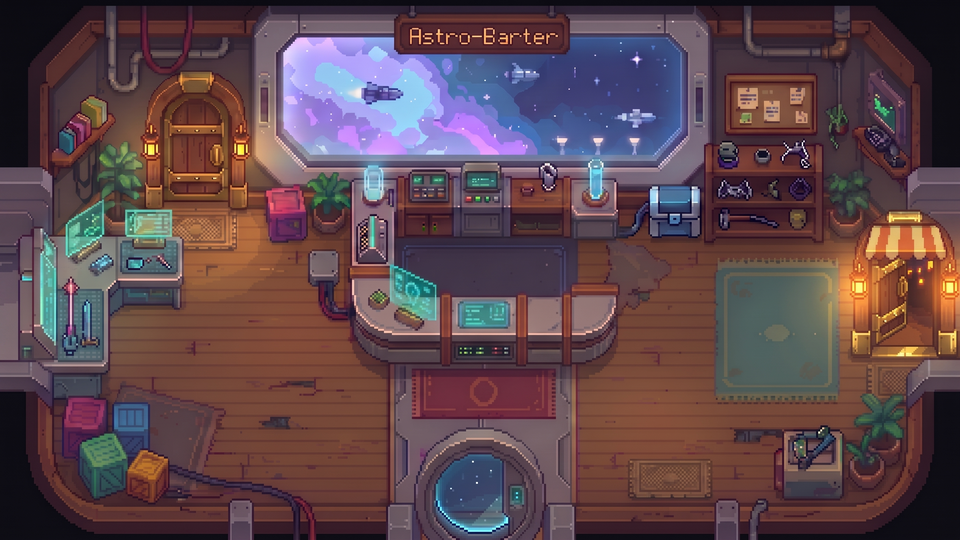
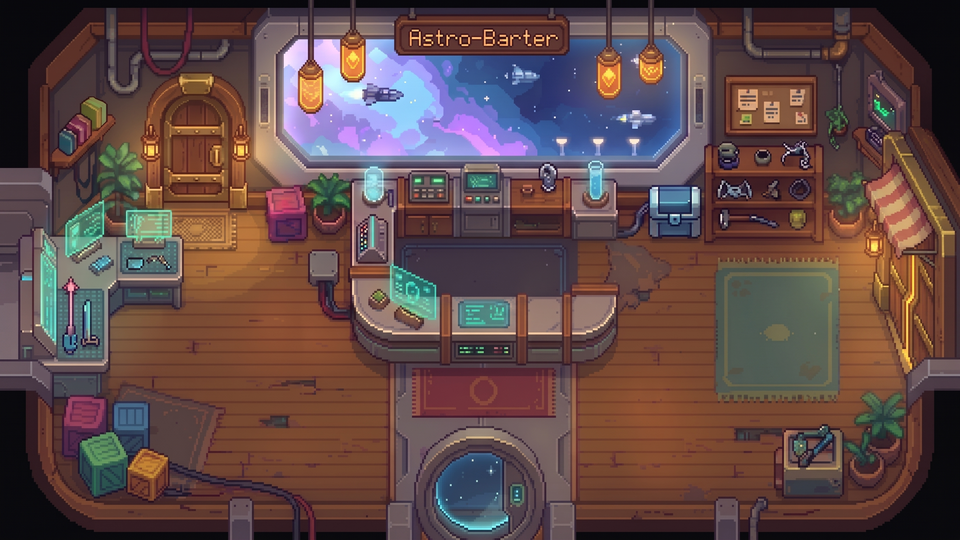
fix(laden): Ausgangstür seitlich in der rechten Wand (Wand-Perspektive) in allen Stufen
Claude-Session: https://claude.ai/code/session_016nKYwkpeUHJGHpF5xe8T1D

diff --git a/src/scenes/ShopScene.ts b/src/scenes/ShopScene.ts
@@ -1471,7 +1471,7 @@ export class ShopScene {
     drawGlow(ctx, 64, 132, 32, '#38e8d4', 0.16 + nightBoost + pulse * 0.08);
     drawGlow(ctx, BACKROOM_DOOR_POS.x, BACKROOM_DOOR_POS.y - 12, 22, '#fbbf24', 0.2 + nightBoost + pulse * 0.08);
     // Ausgangstür (Holz, rechte Wand): warmes Laternen-/Hallenlicht statt Portal-Schein
-    drawGlow(ctx, 448, 150, 26 + pulse * 3, '#fbbf24', 0.16 + nightBoost + pulse * 0.07);
+    drawGlow(ctx, 452, 132, 24 + pulse * 3, '#fbbf24', 0.16 + nightBoost + pulse * 0.07);
 
     // Backroom Doorway mounted flush on upper-left wall (leading to Captain's Quarters!)
     this.renderBackroomDoor(ctx, pulse);

diff --git a/handoff/world_overhaul.md b/handoff/world_overhaul.md
@@ -43,3 +43,4 @@
 17. Türen: Laden-Innentür = Holztür (passt zur Holz-Fassade außen); Hangar-Ausgang = die unten mittig im Bild vorhandene Tür (Hazard-Rahmen + Schild), Spawn (240,222), Ausgang per E oder nach unten laufen. Das Modell kann Türen nicht in eine Seitenwand setzen — bestehende Tür-Öffnung im Bild nutzen.
 18. Leaderboard-Kiosk (`prop_scoreboard`, 80×100): frontal auf verschraubter Bodenplatte mit Kabeln; Bodenlicht flach (`drawFloorGlow`).
 19. Upgrade-Cutscenes: Sound je Gebäude (Schmiede Hammer, Med Chime, Tech Boarding-Chime), `HubScene.tickAmbient` lässt Kael/Mina/Lichter während der Cutscene weiterlaufen, Schiff-Enthüllung (`kind: 'ship'`) landet im Raumhafen auf dem Dock mit Rampe.
+20. **Türen in Seitenwänden brauchen Wand-Perspektive** (verkürzt/seitlich), nie frontal: Ein frontales Türbild in der rechten Wand wirkt aufgeklebt (Inhaber-Feedback). Rezept: Basis-Bild, das schon eine seitlich sitzende Tür hat (Laden Stufe 2 mit Markise), als zweites Referenzbild geben und „same side-wall perspective, same angle/size/position“ verlangen; Varianten je Stufe nur im Dekor ändern. Raumtür-Position ist in allen Stufen gleich (logisch ca. x 440–465, y 68–188; Interaktion `WARP_GATE_POS` (426,152)).
